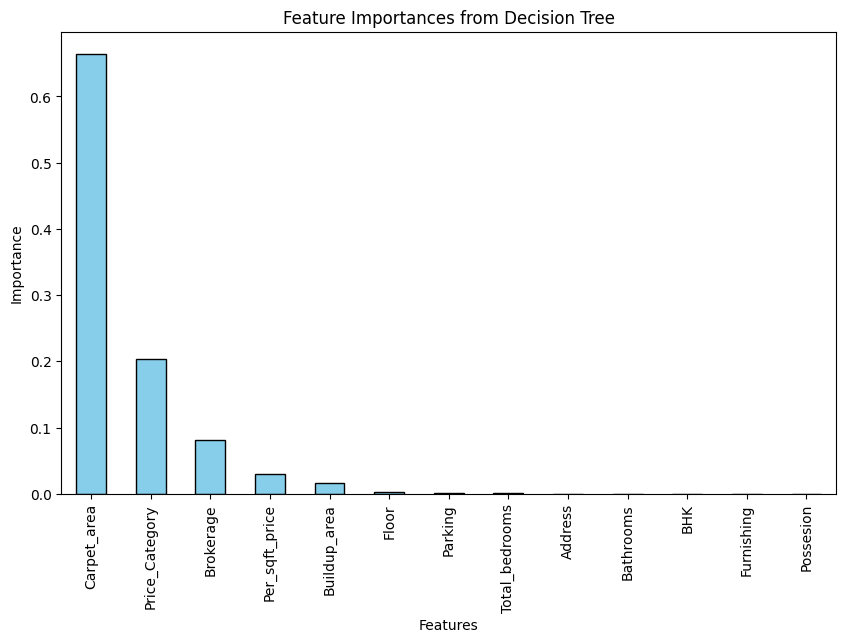
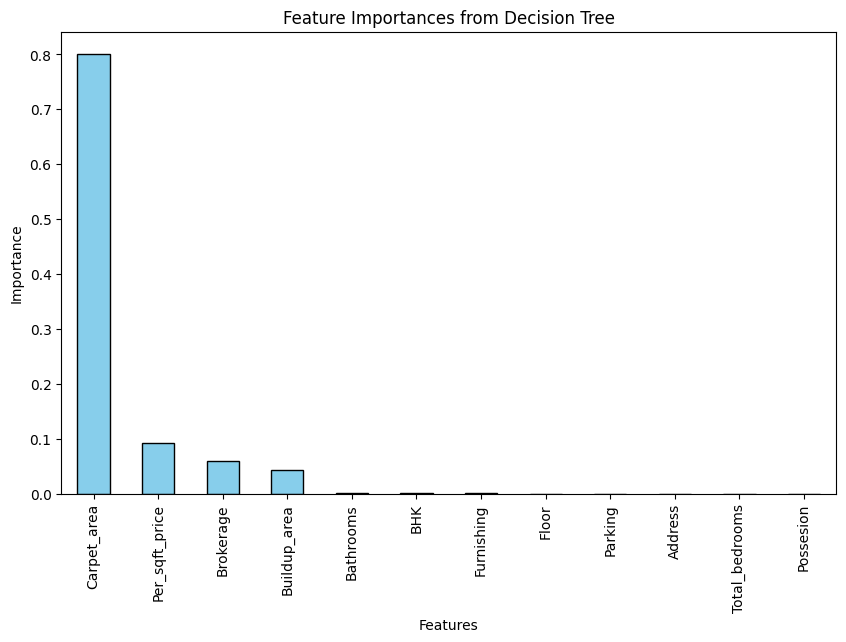
Q3/2a Done

diff --git a/A4/Q3/2a.py b/A4/Q3/2a.py
@@ -1,24 +1,21 @@
 import pandas as pd
-from sklearn.model_selection import train_test_split
 from sklearn.tree import DecisionTreeRegressor
 import matplotlib.pyplot as plt
 import os
 
 os.makedirs("Plots", exist_ok=True)
 
-# train_data = pd.read_csv('../dataset/train.csv')
-train_data = pd.read_csv('../processed_train_data.csv')
+train_data = pd.read_csv('../Q2/X_train_final_with_categories.csv')
 
-X = train_data.drop(columns=['Price'])
-y = train_data['Price']
-X_train, X_test, y_train, y_test = train_test_split(X, y, test_size=0.2, random_state=42)
+X_train = train_data.drop(columns=['Price', 'Price_Category'])
+y_train = train_data['Price']
 
 # Training Decision Tree on processed data
 model = DecisionTreeRegressor(random_state=42)
 model.fit(X_train, y_train)
 
 # Extract feature importances from the trained Decision Tree model
-feature_importances = pd.Series(model.feature_importances_, index=X.columns)
+feature_importances = pd.Series(model.feature_importances_, index=X_train.columns)
 
 plt.figure(figsize=(10, 6))
 feature_importances.sort_values(ascending=False).plot(kind='bar', color='skyblue', edgecolor='black')
